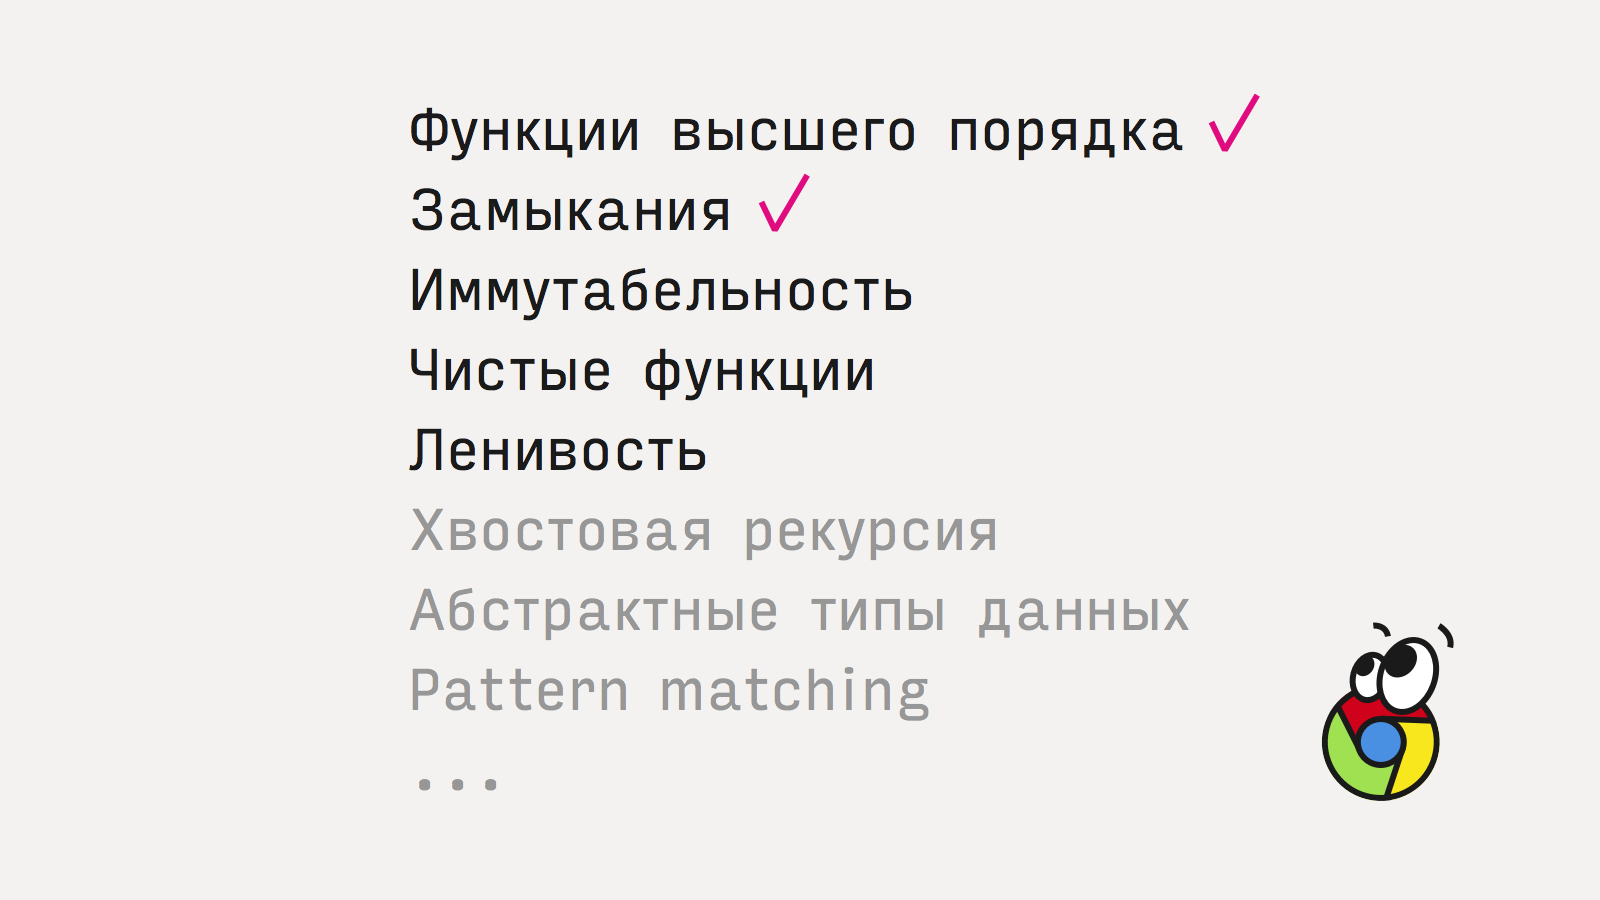
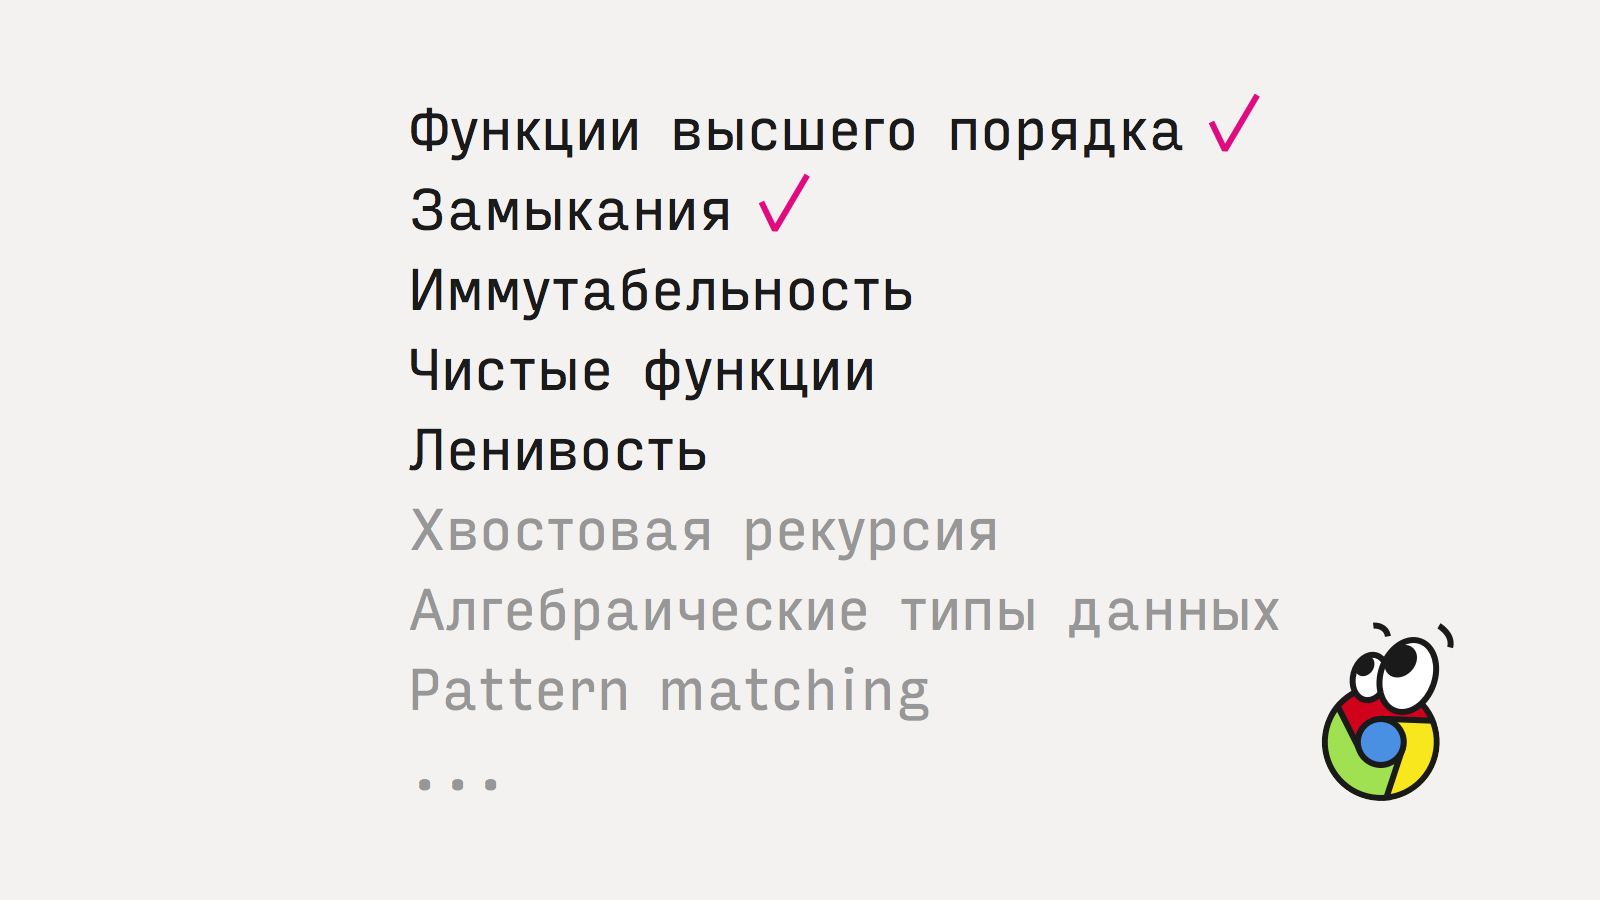
typos

Changed region(s): [[0.2812, 0.6533, 0.8125, 0.7156]]

diff --git a/talks/2015-codefest/index.md b/talks/2015-codefest/index.md
@@ -32,13 +32,13 @@ summary: "Какие проблемы решает функциональное 
 
 ## Ликбез по ФП
 
-Что я понимаю под функциональным программированем? Это зонтичный термин, возникший спонтанно и исторически, точного определения у него нет.
+Что я понимаю под функциональным программированием? Это зонтичный термин, возникший спонтанно и исторически, точного определения у него нет.
 
-В простейшем, минимально-обязательном смысле функциональным называют язык, в котором есть функции высшего порядка и замыкания. Сегодня это джентельменский набор, стыдно не уметь, подключились даже Java и C++11. В _таком_ смысле JavaScript, конечно, исконно-функциональный язык — там всегда только так и программировали.
+В простейшем, минимально-обязательном смысле функциональным называют язык, в котором есть функции высшего порядка и замыкания. Сегодня это джентльменский набор, стыдно не уметь, подключились даже Java и C++11. В _таком_ смысле JavaScript, конечно, исконно-функциональный язык — там всегда только так и программировали.
 
 <img class="slide" src="functional-programming.png">
 
-Нас будут интересовать три других аспекта, тоже причисляемые к ФП: иммутабельные данные, чистые функции и ленивость. Остальные аспекты — хвостовую рекурсию, паттерн-матчинг и абстрактные типы данных — мы пропустим.
+Нас будут интересовать три других аспекта, тоже причисляемые к ФП: иммутабельные данные, чистые функции и ленивость. Остальные аспекты — хвостовую рекурсию, паттерн-матчинг и алгебраические типы данных — мы пропустим.
 
 <img class="slide" src="pure-functions.png">
 
@@ -169,7 +169,7 @@ summary: "Какие проблемы решает функциональное 
 
 Красота этого подхода в том, что он позволяет прозрачно обрабатывать конфликты. По сути, никаких конфликтов и нет: если у сервера свой взгляд на очередность событий, клиент просто согласится с ней. Если в лог вплелись события других пользователей, то они точно так же вплетутся в локальный лог.
 
-Elm исползует иммутабельность для реализации фич еще более фантастических: у них <a href="http://debug.elm-lang.org">есть time-travelling debugger</a>:
+Elm использует иммутабельность для реализации фич еще более фантастических: у них <a href="http://debug.elm-lang.org">есть time-travelling debugger</a>:
 
 <iframe class="slide" width="800" height="450" src="https://www.youtube.com/embed/zybahE0aQqA" frameborder="0" allowfullscreen></iframe>
 
